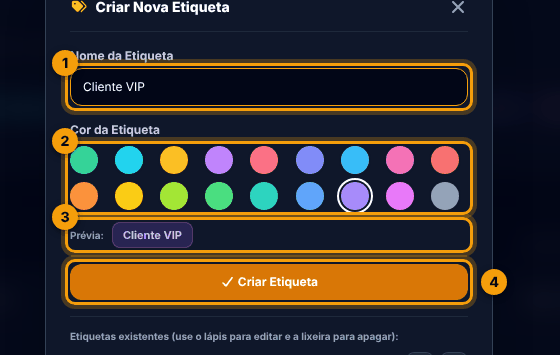
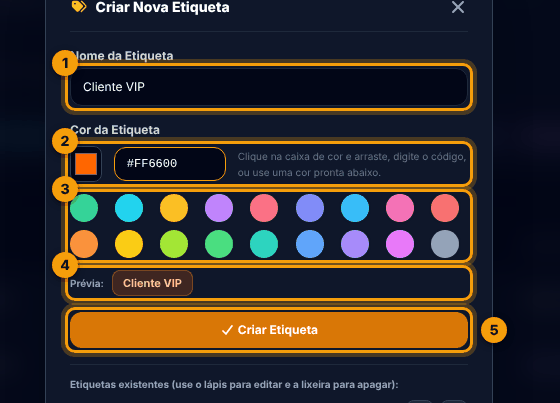
Etiquetas: seletor de cor livre (clicar/arrastar + código #RRGGBB) com cores prontas e prévia
Claude-Session: https://claude.ai/code/session_01HdKHX4MgYy3BSAUchSo52J

diff --git a/src/front_api/pabx_panel/modules/whatsapp/contatos.php b/src/front_api/pabx_panel/modules/whatsapp/contatos.php
@@ -68,6 +68,19 @@ $color_palette = [
     'slate'    => ['label' => 'Cinza',    'classes' => 'bg-slate-500/20 text-slate-300 border-slate-500/40', 'dot' => 'bg-slate-400'],
 ];
 
+// Cor da etiqueta: chave da paleta OU código livre #RRGGBB (escolhido no seletor de cor)
+function tagIsHex($ck) { return (bool)preg_match('/^#[0-9A-Fa-f]{6}$/', (string)$ck); }
+function tagCls($ck, $palette, $fallback = 'bg-slate-800 text-slate-400 border-slate-700') {
+    if (tagIsHex($ck)) return '';
+    return isset($palette[$ck]) ? $palette[$ck]['classes'] : $fallback;
+}
+function tagSty($ck) {
+    if (!tagIsHex($ck)) return '';
+    $r = hexdec(substr($ck, 1, 2)); $g = hexdec(substr($ck, 3, 2)); $b = hexdec(substr($ck, 5, 2));
+    $tx = sprintf('#%02x%02x%02x', (int)($r + (255 - $r) * .6), (int)($g + (255 - $g) * .6), (int)($b + (255 - $b) * .6));
+    return "background:rgba($r,$g,$b,.2);color:$tx;border-color:rgba($r,$g,$b,.4)";
+}
+
 // ─── PROCESSAMENTO DE FORMULÁRIOS ─────────────────────────────────────────────
 $req = $_SERVER['REQUEST_METHOD'] === 'POST';
 
@@ -75,9 +88,11 @@ $req = $_SERVER['REQUEST_METHOD'] === 'POST';
 if ($req && isset($_POST['action_create_tag'])) {
     $tname = trim($_POST['new_tag_name'] ?? '');
     $tclr  = trim($_POST['new_tag_color'] ?? 'emerald');
+    $thex  = trim($_POST['new_tag_hex'] ?? '');
+    if ($thex !== '') { if ($thex[0] !== '#') $thex = '#' . $thex; if (tagIsHex($thex)) $tclr = strtoupper($thex); else $tclr = ''; }
     $teid  = intval($_POST['edit_tag_id'] ?? 0);
-    if ($tname === '' || !isset($color_palette[$tclr])) {
-        $msg_error = 'Informe o nome e escolha uma cor para a etiqueta.';
+    if ($tname === '' || (!isset($color_palette[$tclr]) && !tagIsHex($tclr))) {
+        $msg_error = 'Informe o nome e escolha uma cor válida para a etiqueta (código no formato #RRGGBB).';
     } elseif ($teid) {
         try {
             $st = $db->prepare("SELECT name FROM contact_tags WHERE id = :id"); $st->execute([':id' => $teid]);
@@ -336,10 +351,11 @@ if (getSetting('contact_tags_seeded') !== '1') {
 $tags_list = $db->query("SELECT * FROM contact_tags ORDER BY name ASC")->fetchAll(PDO::FETCH_ASSOC);
 
 // Mapa de cores por nome de etiqueta
-$tag_color_map = [];
+$tag_color_map = []; $tag_style_map = [];
 foreach ($tags_list as $tl) {
     $ck = $tl['color_key'];
-    $tag_color_map[$tl['name']] = isset($color_palette[$ck]) ? $color_palette[$ck]['classes'] : 'bg-slate-800 text-slate-300 border-slate-700';
+    $tag_color_map[$tl['name']] = tagCls($ck, $color_palette, 'bg-slate-800 text-slate-300 border-slate-700');
+    $tag_style_map[$tl['name']] = tagSty($ck);
 }
 
 // Aba ativa
@@ -417,10 +433,10 @@ $active_tab = isset($_GET['crm_tab']) ? $_GET['crm_tab'] : 'contacts';
                 <button onclick="filterByTag('ALL')" class="px-2.5 py-1 rounded-lg bg-slate-800 text-white hover:bg-slate-700 transition">Todas</button>
                 <?php foreach ($tags_list as $tl):
                     $ck  = $tl['color_key'];
-                    $cls = isset($color_palette[$ck]) ? $color_palette[$ck]['classes'] : 'bg-slate-800 text-slate-400 border-slate-700';
+                    $cls = tagCls($ck, $color_palette); $sty = tagSty($ck);
                 ?>
                 <button onclick="filterByTag('<?php echo htmlspecialchars($tl['name']); ?>')"
-                        class="px-2.5 py-1 rounded-lg border <?php echo $cls; ?> hover:opacity-80 transition">
+                        class="px-2.5 py-1 rounded-lg border <?php echo $cls; ?> hover:opacity-80 transition" style="<?php echo htmlspecialchars($sty); ?>">
                     🏷 <?php echo htmlspecialchars($tl['name']); ?>
                 </button>
                 <?php endforeach; ?>
@@ -466,7 +482,7 @@ $active_tab = isset($_GET['crm_tab']) ? $_GET['crm_tab'] : 'contacts';
                         </td></tr>
                     <?php else: ?>
                     <?php foreach ($contacts_list as $c):
-                        $tclss = isset($tag_color_map[$c['tag']]) ? $tag_color_map[$c['tag']] : 'bg-slate-800 text-slate-400 border-slate-700';
+                        $tclss = isset($tag_color_map[$c['tag']]) ? $tag_color_map[$c['tag']] : 'bg-slate-800 text-slate-400 border-slate-700'; $tstyl = $tag_style_map[$c['tag']] ?? '';
                         $srcCls = ($c['source'] === 'Prismabot' || $c['source'] === 'API Z-PRO') ? 'bg-emerald-500/20 text-emerald-300 border border-emerald-500/30' : 'bg-slate-800 text-slate-400';
                     ?>
                     <tr class="contact-row hover:bg-slate-800/40 transition" data-tag="<?php echo htmlspecialchars($c['tag']); ?>"
@@ -496,7 +512,7 @@ $active_tab = isset($_GET['crm_tab']) ? $_GET['crm_tab'] : 'contacts';
                         <td class="p-3 text-slate-200"><?php echo htmlspecialchars($c['company'] ?: '—'); ?></td>
                         <td class="p-3">
                             <?php if ($c['tag']): ?>
-                                <span class="px-2.5 py-0.5 rounded-md text-[10px] font-bold border <?php echo $tclss; ?>">🏷 <?php echo htmlspecialchars($c['tag']); ?></span>
+                                <span class="px-2.5 py-0.5 rounded-md text-[10px] font-bold border <?php echo $tclss; ?>" style="<?php echo htmlspecialchars($tstyl); ?>">🏷 <?php echo htmlspecialchars($c['tag']); ?></span>
                             <?php else: ?>
                                 <span class="text-slate-600">—</span>
                             <?php endif; ?>
@@ -787,10 +803,15 @@ $active_tab = isset($_GET['crm_tab']) ? $_GET['crm_tab'] : 'contacts';
             </div>
             <div>
                 <label class="font-bold text-slate-300 block mb-2">Cor da Etiqueta</label>
+                <div class="flex items-center gap-3 mb-3">
+                    <input type="color" id="tag-picker" value="#10b981" class="w-12 h-9 rounded-lg bg-slate-950 border border-slate-700 cursor-pointer p-0.5" title="Clique e arraste para escolher qualquer cor" oninput="tagPickerChanged(this.value)">
+                    <input type="text" name="new_tag_hex" id="tag-hex" maxlength="7" placeholder="#10B981" autocomplete="off" class="w-28 px-3 py-2 bg-slate-950 border border-slate-800 rounded-xl text-white font-mono text-xs focus:border-amber-500 outline-none" oninput="tagHexTyped(this.value)">
+                    <span class="text-[10px] text-slate-500">Clique na caixa de cor e arraste, digite o código, ou use uma cor pronta abaixo.</span>
+                </div>
                 <div class="grid grid-cols-9 gap-2" id="tag-swatches">
                     <?php foreach ($color_palette as $ck => $cv): ?>
                     <label class="cursor-pointer" title="<?php echo htmlspecialchars($cv['label']); ?>">
-                        <input type="radio" name="new_tag_color" id="tagc_<?php echo $ck; ?>" value="<?php echo $ck; ?>" class="hidden peer" <?php echo $ck === 'emerald' ? 'checked' : ''; ?> onchange="tagPreviewUpdate()" data-classes="<?php echo htmlspecialchars($cv['classes']); ?>">
+                        <input type="radio" name="new_tag_color" id="tagc_<?php echo $ck; ?>" value="<?php echo $ck; ?>" class="hidden peer" <?php echo $ck === 'emerald' ? 'checked' : ''; ?> onchange="tagSwatchChosen()" data-classes="<?php echo htmlspecialchars($cv['classes']); ?>">
                         <span class="block w-7 h-7 rounded-full <?php echo $cv['dot']; ?> ring-2 ring-transparent ring-offset-2 ring-offset-slate-900 peer-checked:ring-white hover:scale-110 transition"></span>
                     </label>
                     <?php endforeach; ?>
@@ -812,11 +833,11 @@ $active_tab = isset($_GET['crm_tab']) ? $_GET['crm_tab'] : 'contacts';
             <div class="flex flex-col gap-1.5 max-h-52 overflow-y-auto">
                 <?php foreach ($tags_list as $tl):
                     $ck = $tl['color_key'];
-                    $cls = isset($color_palette[$ck]) ? $color_palette[$ck]['classes'] : 'bg-slate-800 text-slate-400';
+                    $cls = tagCls($ck, $color_palette, 'bg-slate-800 text-slate-400'); $sty = tagSty($ck);
                     $nuse = 0; foreach ($contacts_list as $cc) { if (($cc['tag'] ?? '') === $tl['name']) $nuse++; }
                 ?>
                 <div class="flex items-center justify-between gap-2">
-                    <span class="px-2 py-0.5 rounded text-[10px] font-bold border <?php echo $cls; ?>">🏷 <?php echo htmlspecialchars($tl['name']); ?></span>
+                    <span class="px-2 py-0.5 rounded text-[10px] font-bold border <?php echo $cls; ?>" style="<?php echo htmlspecialchars($sty); ?>">🏷 <?php echo htmlspecialchars($tl['name']); ?></span>
                     <span class="flex items-center gap-1.5">
                         <span class="text-[10px] text-slate-500"><?php echo $nuse; ?> contato(s)</span>
                         <button type="button" title="Editar etiqueta" onclick='editTag(<?php echo (int)$tl['id']; ?>, <?php echo json_encode($tl['name'], JSON_UNESCAPED_UNICODE | JSON_HEX_APOS | JSON_HEX_QUOT); ?>, <?php echo json_encode($ck); ?>)' class="w-7 h-7 rounded-lg bg-slate-800 hover:bg-amber-600/30 text-amber-300 border border-slate-700 flex items-center justify-center"><i class="fa-solid fa-pen text-[10px]"></i></button>
@@ -837,7 +858,10 @@ $active_tab = isset($_GET['crm_tab']) ? $_GET['crm_tab'] : 'contacts';
 function editTag(id, name, color) {
     document.getElementById('edit_tag_id').value = id;
     document.getElementById('new_tag_name').value = name;
-    var r = document.getElementById('tagc_' + color); if (r) r.checked = true; tagPreviewUpdate();
+    document.querySelectorAll('input[name=new_tag_color]').forEach(x => x.checked = false);
+    if (/^#[0-9a-fA-F]{6}$/.test(color)) { document.getElementById('tag-hex').value = color; document.getElementById('tag-picker').value = color; }
+    else { document.getElementById('tag-hex').value = ''; var r = document.getElementById('tagc_' + color); if (r) r.checked = true; }
+    tagPreviewUpdate();
     document.getElementById('tag-modal-title').textContent = 'Editar Etiqueta';
     document.getElementById('tag-submit-txt').textContent = 'Salvar alterações';
     document.getElementById('tag-cancel-edit').classList.remove('hidden');
@@ -846,7 +870,7 @@ function editTag(id, name, color) {
 function cancelEditTag() {
     document.getElementById('edit_tag_id').value = 0;
     document.getElementById('new_tag_name').value = '';
-    var r = document.getElementById('tagc_emerald'); if (r) r.checked = true; tagPreviewUpdate();
+    document.getElementById('tag-hex').value = ''; var r = document.getElementById('tagc_emerald'); if (r) r.checked = true; tagPreviewUpdate();
     document.getElementById('tag-modal-title').textContent = 'Criar Nova Etiqueta';
     document.getElementById('tag-submit-txt').textContent = 'Criar Etiqueta';
     document.getElementById('tag-cancel-edit').classList.add('hidden');
@@ -928,12 +952,31 @@ function downloadCsvTemplate() {
     a.download = 'modelo_importacao_contatos.csv';
     document.body.appendChild(a); a.click(); a.remove();
 }
-function tagPreviewUpdate() {
-    const r = document.querySelector('input[name=new_tag_color]:checked'); const p = document.getElementById('tag-preview'); const n = document.getElementById('new_tag_name');
-    if (!r || !p) return;
-    p.className = 'px-2.5 py-1 rounded-lg border text-[11px] font-bold ' + r.dataset.classes;
-    p.textContent = (n && n.value.trim()) ? n.value.trim() : 'Nome da etiqueta';
+function tagHexStyle(h) {
+    const r = parseInt(h.substr(1,2),16), g = parseInt(h.substr(3,2),16), b = parseInt(h.substr(5,2),16);
+    const m = c => Math.round(c + (255 - c) * 0.6);
+    return 'background:rgba('+r+','+g+','+b+',.2);color:rgb('+m(r)+','+m(g)+','+m(b)+');border-color:rgba('+r+','+g+','+b+',.4)';
 }
+function tagPreviewUpdate() {
+    const p = document.getElementById('tag-preview'); const n = document.getElementById('new_tag_name'); const hx = document.getElementById('tag-hex');
+    if (!p) return;
+    p.textContent = (n && n.value.trim()) ? n.value.trim() : 'Nome da etiqueta';
+    p.className = 'px-2.5 py-1 rounded-lg border text-[11px] font-bold'; p.removeAttribute('style');
+    if (hx && /^#[0-9a-fA-F]{6}$/.test(hx.value.trim())) { p.setAttribute('style', tagHexStyle(hx.value.trim())); return; }
+    const r = document.querySelector('input[name=new_tag_color]:checked');
+    if (r) p.className += ' ' + r.dataset.classes;
+}
+function tagPickerChanged(v) {   // arrastou no seletor de cor: vale o código livre
+    document.getElementById('tag-hex').value = v.toUpperCase();
+    document.querySelectorAll('input[name=new_tag_color]').forEach(x => x.checked = false);
+    tagPreviewUpdate();
+}
+function tagHexTyped(v) {
+    v = v.trim(); if (v && v[0] !== '#') v = '#' + v;
+    if (/^#[0-9a-fA-F]{6}$/.test(v)) { document.getElementById('tag-picker').value = v; document.querySelectorAll('input[name=new_tag_color]').forEach(x => x.checked = false); }
+    tagPreviewUpdate();
+}
+function tagSwatchChosen() { document.getElementById('tag-hex').value = ''; tagPreviewUpdate(); }
 document.addEventListener('input', e => { if (e.target && e.target.id === 'new_tag_name') tagPreviewUpdate(); });
 function openModal(id)  { const m = document.getElementById(id); if (m) m.classList.remove('hidden'); }
 function closeModal(id) { const m = document.getElementById(id); if (m) m.classList.add('hidden');    }

diff --git a/src/front_api/pabx_panel/includes/manual.php b/src/front_api/pabx_panel/includes/manual.php
@@ -60,7 +60,7 @@ return [
         ['t' => 'Importar contatos por CSV', 'd' => 'Importa uma planilha de contatos de qualquer origem. O painel reconhece as colunas, arruma os telefones e mostra uma prévia: só depois que você confirma é que os contatos são gravados.', 'passos' => ['Salve a planilha como CSV (no Excel: Salvar como > CSV). Para começar do zero, clique em Importar CSV e depois em Baixar modelo de planilha.', 'Clique em Importar CSV, escolha o arquivo e clique em Ver prévia.', 'Confira o resumo e a lista de exemplo. Se alguma coluna não foi reconhecida, escolha a correta nas caixas Nome, Telefone, E-mail, Empresa e Etiqueta e clique em Recalcular prévia.', 'Marque Importar também os contatos sem nome, se quiser incluí-los.', 'Clique em Importar agora. A mensagem final resume o que entrou e o que foi ignorado.'], 'campos' => ['Serão importados' => 'Contatos com nome e número válido que ainda não existem na agenda.', 'Sem nome' => 'Linhas com número válido, mas sem nome. Só entram se a caixa for marcada, com o número no lugar do nome.', 'Já cadastrados' => 'O número já está na agenda: a linha é ignorada.', 'Repetidos no arquivo' => 'O mesmo número aparece mais de uma vez no arquivo: só a primeira vale.', 'Número inválido' => 'Telefone com poucos ou muitos dígitos. A prévia lista as linhas para você corrigir.'], 'dica' => 'O painel entende separador ; ou , e acentos de planilhas antigas. Telefones como (16) 3721-0000 ou 16 99999-0000 são arrumados e ganham o 55 sozinhos. Etiquetas que ainda não existem são criadas na hora.', 'aviso' => 'Limite de 5 MB e 20.000 linhas por arquivo. Acima disso, divida a planilha em partes.'],
         ['t' => 'Apagar vários contatos de uma vez', 'd' => 'Em Agenda & Contatos, marque a caixinha de cada contato que quer apagar, ou use a caixinha do topo da tabela para marcar todos os que aparecem (respeita o filtro de etiqueta e a busca). O botão vermelho Apagar selecionados mostra quantos estão marcados e pede confirmação antes de excluir.', 'aviso' => 'Contatos apagados não podem ser recuperados. A exclusão vale também para a agenda do painel clássico, que fica igual a esta.'],
         ['t' => 'Relatórios agendados por e-mail ou WhatsApp', 'd' => 'Em Configurações > E-mail (SMTP), no quadro Cadastrar Novo Agendamento: 1) dê um título; 2) escolha o relatório; 3) escolha a frequência (diário, semanal ou mensal); 4) confira o Período dos dados, que já vem sugerido (diário = ontem, semanal = semana anterior, mensal = mês anterior) e pode ser trocado por hoje, últimos 7 ou 30 dias; 5) defina o horário e o destino; 6) clique em Criar Agendamento. Para mudar algo depois, clique em Editar na lista de agendamentos ativos, ajuste e clique em Salvar Alterações.', 'aviso' => 'Um relatório enviado às 8h com período Hoje sai quase vazio, porque o dia mal começou. Para relatório diário, use Ontem.'],
-        ['t' => 'Etiquetas dos contatos', 'd' => 'As etiquetas separam seus contatos por grupo (Comercial, Financeiro, VIP…). Você pode criar, editar e apagar as etiquetas quando quiser.', 'passos' => ['Em Agenda & Contatos, clique em Etiquetas (no topo da tela).', 'Para criar: digite o nome, clique na cor desejada na tabela de cores (são 18 cores; a escolhida fica com borda branca) e confira a prévia de como a etiqueta vai aparecer. Depois clique em Criar Etiqueta.', 'Para editar: na lista de etiquetas existentes, clique no lápis, mude o nome e/ou a cor e clique em Salvar alterações. Os contatos que usavam a etiqueta passam a mostrar o nome novo.', 'Para apagar: clique na lixeira e confirme. Os contatos que usavam a etiqueta ficam sem etiqueta; nenhum contato é apagado.'], 'aviso' => 'Uma etiqueta apagada não volta sozinha, nem as que já vêm de fábrica. Se quiser de novo, crie outra com o mesmo nome.', 'dica' => 'A lista mostra quantos contatos usam cada etiqueta, para você saber o efeito antes de apagar.', 'kw' => 'etiqueta tag grupo contato editar apagar excluir renomear cor'],
+        ['t' => 'Etiquetas dos contatos', 'd' => 'As etiquetas separam seus contatos por grupo (Comercial, Financeiro, VIP…). Você pode criar, editar e apagar as etiquetas quando quiser.', 'passos' => ['Em Agenda & Contatos, clique em Etiquetas (no topo da tela).', 'Para criar: digite o nome e escolha a cor. Clique na caixa de cor e arraste no quadro para achar qualquer tom (o código #RRGGBB aparece ao lado), ou digite o código se já o conhece, ou clique numa das 18 cores prontas. Confira a prévia de como a etiqueta vai aparecer e clique em Criar Etiqueta.', 'Para editar: na lista de etiquetas existentes, clique no lápis, mude o nome e/ou a cor e clique em Salvar alterações. Os contatos que usavam a etiqueta passam a mostrar o nome novo.', 'Para apagar: clique na lixeira e confirme. Os contatos que usavam a etiqueta ficam sem etiqueta; nenhum contato é apagado.'], 'aviso' => 'Uma etiqueta apagada não volta sozinha, nem as que já vêm de fábrica. Se quiser de novo, crie outra com o mesmo nome.', 'dica' => 'A lista mostra quantos contatos usam cada etiqueta, para você saber o efeito antes de apagar.', 'kw' => 'etiqueta tag grupo contato editar apagar excluir renomear cor'],
     ]],
     ['id' => 'relatorios', 'titulo' => 'Relatórios & Gravações', 'icon' => 'fa-chart-line', 'itens' => [
         ['t' => 'Gravação por WhatsApp: arquivo anexo', 'd' => 'A gravação da chamada é enviada como arquivo de áudio anexo, em qualquer WhatsApp conectado. Isso funciona com IP interno, IP externo ou DDNS, sem configurar nada. O envio manual a partir de CDR & Gravações também anexa o arquivo.', 'campos' => ['Arquivo anexo' => 'Padrão. Vai direto no WhatsApp, até 15 MB por gravação.', 'URL pública do painel (opcional)' => 'Em Configurações > API. Se preenchida, gravações acima de 15 MB seguem como link temporário (7 dias), e o link também é incluído nos envios manuais.'], 'dica' => 'Para o link funcionar fora da rede da empresa, use o endereço de acesso externo do painel (IP externo ou DDNS).'],

diff --git a/src/front_api/pabx_panel/includes/manual_figuras.php b/src/front_api/pabx_panel/includes/manual_figuras.php
@@ -41,7 +41,7 @@ return [
     'whatsapp|Importar contatos por CSV' => [['f' => 'manual/fig/w4-csv.png', 'c' => 'Janela do Importar CSV.', 'n' => ['Importar CSV.', 'Escolha o arquivo .csv (planilha salva como CSV).', 'Baixar modelo de planilha.', 'Ver prévia: nada é gravado ainda.']],
         ['f' => 'manual/fig/w4-csvprev.png', 'c' => 'Prévia da importação do CSV.', 'n' => ['Resumo: quantos serão importados, sem nome, já cadastrados, repetidos no arquivo e com número inválido.', 'Colunas do arquivo: ajuste se o painel não reconheceu alguma.', 'Recalcular prévia depois de mudar uma coluna.', 'Importar também os contatos sem nome.', 'Importar agora: só aqui os contatos são gravados.']]],
     'whatsapp|Apagar vários contatos de uma vez' => [['f' => 'manual/fig/w4-bulk.png', 'c' => 'Seleção e exclusão em lote.', 'n' => ['Caixinha do topo: marca todos os contatos que aparecem (respeita filtro e busca).', 'Caixinha de cada contato.', 'Apagar selecionados mostra quantos estão marcados e pede confirmação.']]],
-    'whatsapp|Etiquetas dos contatos' => [['f' => 'manual/fig/w4-tag.png', 'c' => 'Janela para criar etiqueta, com tabela de cores.', 'n' => ['Nome da etiqueta.', 'Tabela de cores: clique na cor desejada (a escolhida fica com borda branca).', 'Prévia de como a etiqueta vai aparecer nos contatos.', 'Criar Etiqueta grava; use o lápis ou a lixeira da lista abaixo para editar ou apagar.']]],
+    'whatsapp|Etiquetas dos contatos' => [['f' => 'manual/fig/w4-tag.png', 'c' => 'Janela para criar etiqueta, com seletor de cor.', 'n' => ['Nome da etiqueta.', 'Seletor de cor: clique na caixa e arraste para escolher qualquer cor; o código (#RRGGBB) aparece ao lado e também pode ser digitado.', 'Cores prontas: clique para usar uma cor da tabela.', 'Prévia de como a etiqueta vai aparecer nos contatos.', 'Criar Etiqueta grava; use o lápis ou a lixeira da lista abaixo para editar ou apagar.']]],
     'relatorios|Gravação por WhatsApp: arquivo anexo' => [['f' => 'manual/fig/rl0-cdr.png', 'c' => 'Na lista de chamadas, o botão do WhatsApp envia a gravação como arquivo de áudio.', 'n' => ['Coluna Player & Copiloto: ouvir, baixar e enviar por WhatsApp.']]],
     'relatorios|Chat IA: enviar e agendar por conversa' => [['f' => 'manual/fig/rl1-chat.png', 'c' => 'Peça ao assistente e confirme o cartão antes de enviar (conversa de exemplo).', 'n' => ['Seu pedido, em linguagem normal.', 'Cartão de confirmação: destinatário, texto, data e hora.', 'Confirmar envia ou agenda; Cancelar descarta.']],
         ['f' => 'manual/fig/rl1-agendados.png', 'c' => 'O agendamento aparece em Disparo Rápido, na lista Envios Agendados.', 'n' => ['Lista de Envios Agendados, com o que foi marcado pelo Chat IA.']]],

diff --git a/scripts/manual-shots/specs_p2.py b/scripts/manual-shots/specs_p2.py
@@ -60,5 +60,5 @@ add('whatsapp', 'Apagar vários contatos de uma vez',
   fig('w4-bulk', 'index.php?module=whatsapp&action=contatos', 'Seleção e exclusão em lote.', ['Caixinha do topo: marca todos os contatos que aparecem (respeita filtro e busca).', 'Caixinha de cada contato.', 'Apagar selecionados mostra quantos estão marcados e pede confirmação.'],
       [m(1, sel='thead input[type=checkbox]', pos='tl'), m(2, sel='tbody input[type=checkbox]', pos='tl'), m(3, sel='#bulk-delete-btn', pos='tl')], steps=[('click', 'thead input[type=checkbox]'), ('wait', 600)], minw=700))
 add('whatsapp', 'Etiquetas dos contatos',
-  fig('w4-tag', 'index.php?module=whatsapp&action=contatos', 'Janela para criar etiqueta, com tabela de cores.', ['Nome da etiqueta.', 'Tabela de cores: clique na cor desejada (a escolhida fica com borda branca).', 'Prévia de como a etiqueta vai aparecer nos contatos.', 'Criar Etiqueta grava; use o lápis ou a lixeira da lista abaixo para editar ou apagar.'],
-      [m(1, sel='#new_tag_name', pos='tl'), m(2, sel='#tag-swatches', pos='tl'), m(3, sel='#tag-preview', closest='div', pos='tl'), m(4, sel='#tag-submit', pos='r')], steps=[('js', "openModal('modal-create-tag')"), ('wait', 600), ('fill', '#new_tag_name', 'Cliente VIP'), ('js', "document.getElementById('tagc_violet').click()"), ('wait', 400)], minw=560, pad=50))
+  fig('w4-tag', 'index.php?module=whatsapp&action=contatos', 'Janela para criar etiqueta, com seletor de cor.', ['Nome da etiqueta.', 'Seletor de cor: clique na caixa e arraste para escolher qualquer cor; o código (#RRGGBB) aparece ao lado e também pode ser digitado.', 'Cores prontas: clique para usar uma cor da tabela.', 'Prévia de como a etiqueta vai aparecer nos contatos.', 'Criar Etiqueta grava; use o lápis ou a lixeira da lista abaixo para editar ou apagar.'],
+      [m(1, sel='#new_tag_name', pos='tl'), m(2, sel='#tag-picker', closest='div', pos='tl'), m(3, sel='#tag-swatches', pos='tl'), m(4, sel='#tag-preview', closest='div', pos='tl'), m(5, sel='#tag-submit', pos='r')], steps=[('js', "openModal('modal-create-tag')"), ('wait', 600), ('fill', '#new_tag_name', 'Cliente VIP'), ('fill', '#tag-hex', '#FF6600'), ('wait', 400)], minw=560, pad=50))

diff --git a/src/front_api/pabx_panel/includes/changelog.php b/src/front_api/pabx_panel/includes/changelog.php
@@ -6,7 +6,7 @@
  */
 return [
     'done' => [
-        ['data' => '2026-11-27', 'mes' => 'Novembro/2026', 'novo' => true, 'icon' => 'fa-palette', 'titulo' => 'Tabela de cores nas etiquetas', 'desc' => 'Ao criar ou editar uma etiqueta de contato, a cor agora é escolhida numa tabela com 18 cores, com uma prévia de como a etiqueta vai aparecer. As etiquetas que já existem continuam com a mesma cor.'],
+        ['data' => '2026-11-27', 'mes' => 'Novembro/2026', 'novo' => true, 'icon' => 'fa-palette', 'titulo' => 'Seletor de cor nas etiquetas', 'desc' => 'Ao criar ou editar uma etiqueta de contato, você escolhe qualquer cor clicando e arrastando no seletor (o código da cor aparece e também pode ser digitado), ou usa uma das 18 cores prontas. Há uma prévia da etiqueta. As etiquetas que já existem continuam com a mesma cor.'],
         ['data' => '2026-11-27', 'mes' => 'Novembro/2026', 'novo' => true, 'icon' => 'fa-file-import', 'titulo' => 'Importação inteligente de contatos por CSV', 'desc' => 'Em Agenda & Contatos, o botão Importar CSV aceita qualquer planilha salva como CSV: o painel reconhece as colunas, arruma os telefones, mostra uma prévia (quantos entram, já existem, repetidos, inválidos e sem nome) e só grava quando você confirma. Há também um modelo de planilha para baixar. Nunca duplica contatos: a validação é pelo número.'],
         ['data' => '2026-11-27', 'mes' => 'Novembro/2026', 'novo' => true, 'icon' => 'fa-broom', 'titulo' => 'Agenda & Contatos mais limpa', 'desc' => 'Removido o botão Selecionar os de origem "Ligação PABX". A escolha de importar contatos sem nome agora aparece na janela do Importar Prismabot, e não solta na barra de botões.'],
         ['data' => '2026-11-27', 'mes' => 'Novembro/2026', 'novo' => true, 'icon' => 'fa-circle-question', 'titulo' => 'Importar Prismabot pergunta sobre contatos sem nome', 'desc' => 'Ao importar, os contatos com nome vão direto para a agenda. Se houver contatos sem nome (ou com o número no lugar do nome), o painel pergunta se você quer importá-los mesmo assim. A janela do Importar Prismabot também traz a opção de importar tudo de uma vez.'],
